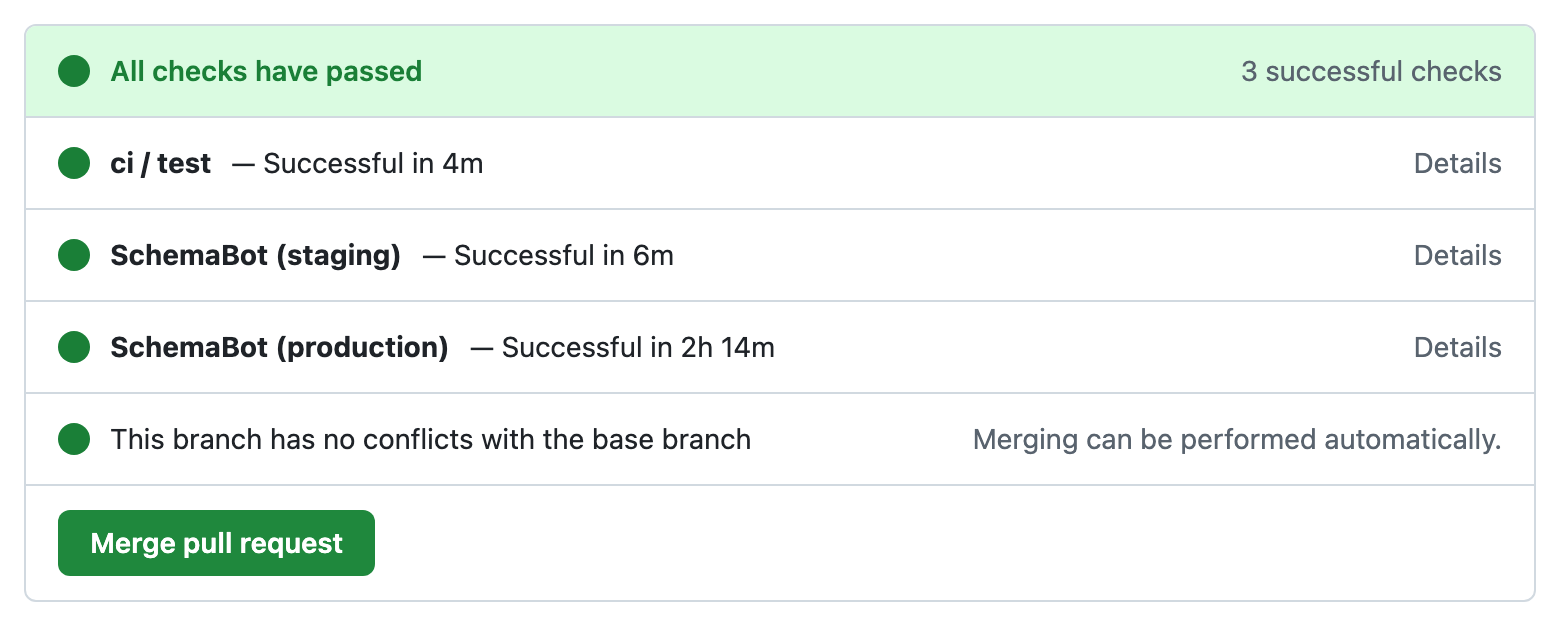
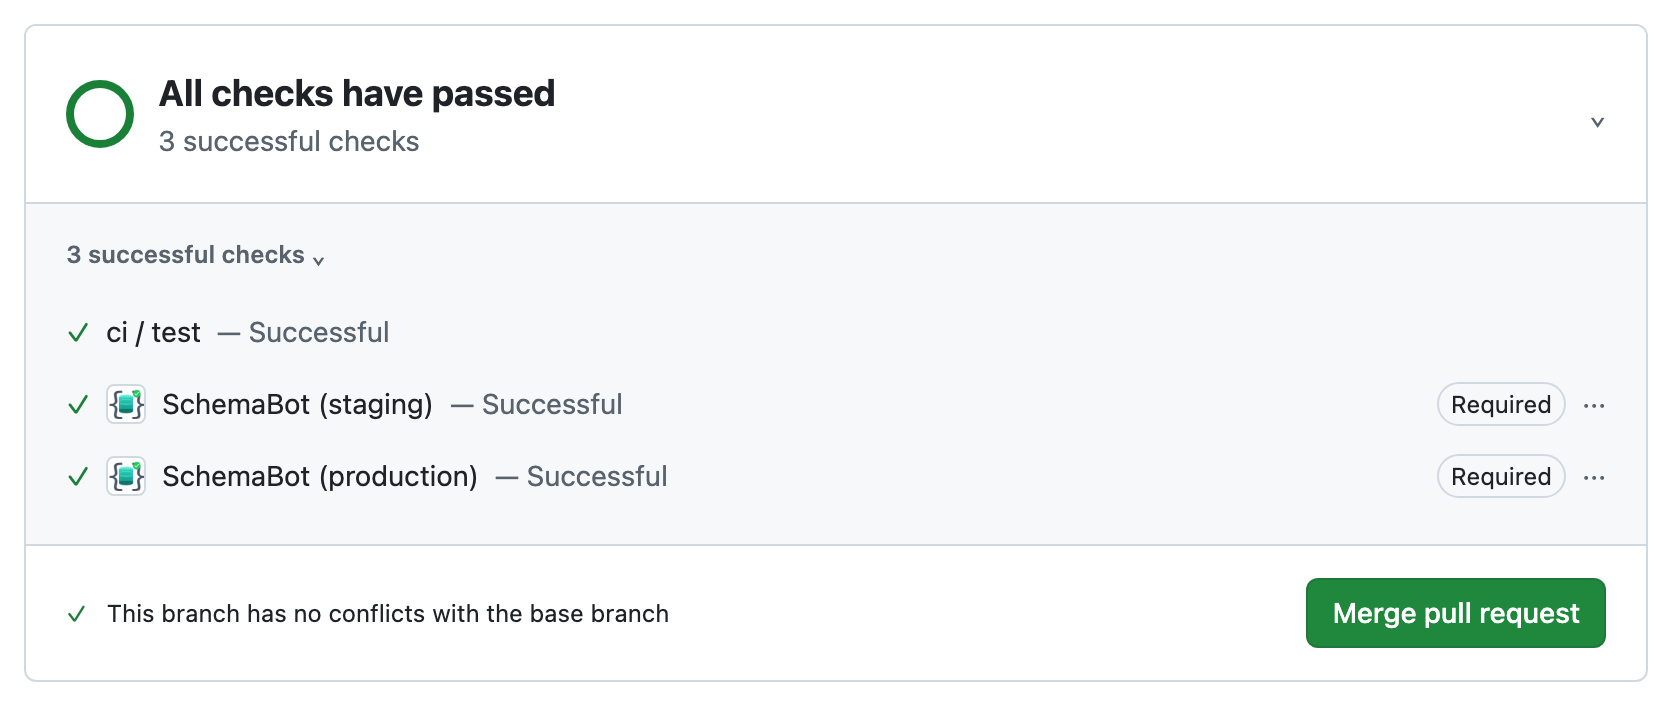
docs: preserve GIF diff colors and refine GitHub styling

diff --git a/assets/src/pr-workflow-demo.html b/assets/src/pr-workflow-demo.html
@@ -1,5 +1,5 @@
 <!doctype html><html><head><meta charset="utf-8"><link rel="stylesheet" href="pr-workflow-comments.css"><style>
-body{padding:0;width:1100px;height:820px;overflow:hidden;background:white;font-size:14px}.repo{height:57px;display:flex;align-items:center;gap:10px;padding:0 28px;background:#f6f8fa;border-bottom:1px solid #d1d9e0;font-size:14px}.repo b{font-weight:600}.repo .pill{border:1px solid #d1d9e0;border-radius:20px;padding:0 7px;font-size:12px;color:#59636e}.repo .right{margin-left:auto;color:#59636e}.page{height:733px;overflow:hidden;overflow-anchor:none;padding:24px 36px 40px}.prhead h1{font-size:28px;font-weight:400;margin:0 0 10px;line-height:1.25}.prhead h1 span{color:#59636e}.meta{display:flex;gap:8px;align-items:center;color:#59636e}.state{background:#1f883d;color:white;border-radius:20px;padding:5px 12px;font-weight:500}.tabs{display:flex;gap:24px;border-bottom:1px solid #d1d9e0;margin:20px 0 24px;height:40px;align-items:flex-start}.tabs span{padding:7px 8px 11px}.tabs .selected{border-bottom:2px solid #fd8c73;font-weight:600}.counter{font-style:normal;font-size:12px;background:#afb8c133;border-radius:20px;padding:1px 6px;margin-left:5px}.content{max-width:960px}.tl{padding-left:56px}.av.h{background:#f6f8fa;display:grid;place-items:center;border:1px solid #d1d9e0;color:#59636e}.hd{min-height:42px}.hd .more{margin-left:12px;font-weight:600}.bd{font-size:14px}.bd>h2{font-size:21px}.bd pre{font-size:12px}.bd hr{height:1px}.bd .markdown-heading h2{font-size:21px;margin:0 0 16px;border-bottom:1px solid #d1d9e0;padding-bottom:8px}.heading-link{display:none}.bd svg{vertical-align:middle}.bd img{max-width:100%}.editor-tabs{display:flex;gap:22px;padding:10px 16px;border-bottom:1px solid #d1d9e0;background:#f6f8fa}.editor-tabs b{font-weight:500}.editor{margin:12px;padding:12px;border:1px solid #0969da;box-shadow:0 0 0 2px #0969da25;border-radius:6px;height:110px;font:14px/1.5 ui-monospace,SFMono-Regular,"SF Mono",Menlo,Consolas,"Liberation Mono",monospace}.caret{border-right:1px solid #1f2328}.editor-foot{padding:0 12px 12px;display:flex;justify-content:space-between;align-items:center;color:#59636e;font-size:12px}.btn{background:#1f883d;color:white;border:1px solid #1f232826;border-radius:6px;padding:6px 14px;font:500 14px/20px -apple-system,BlinkMacSystemFont,"Segoe UI",sans-serif}.btn.pressed{background:#116329}.botnote{padding:0 16px 12px;color:#59636e;font-size:12px}.checks{margin:24px 0 20px 56px;border:1px solid #d1d9e0;border-radius:6px}.checks .row{padding:12px 16px;border-bottom:1px solid #d1d9e0;display:flex;align-items:center;gap:10px}.checks .row:last-child{border-bottom:0}.ok{color:#1a7f37}.tiny{font-size:12px;color:#59636e}.check-detail{margin-left:auto;color:#0969da}.mergedrow{background:#fbefff;min-height:104px}.mergedicon{color:#8250df}.footer{position:fixed;bottom:0;left:0;width:1100px;height:30px;background:#fff;border-top:1px solid #d1d9e0;padding:6px 36px;font-size:11px;color:#6e7781}.pointer{position:fixed;width:11px;height:17px;z-index:5;pointer-events:none;filter:drop-shadow(0 0 1px white)}.hidden{display:none!important}
+body{padding:0;width:1100px;height:820px;overflow:hidden;background:white;font-size:14px}.repo{height:57px;display:flex;align-items:center;gap:10px;padding:0 28px;background:#f6f8fa;border-bottom:1px solid #d1d9e0;font-size:14px}.repo b{font-weight:600}.repo .pill{border:1px solid #d1d9e0;border-radius:20px;padding:0 7px;font-size:12px;color:#59636e}.repo .right{margin-left:auto;color:#59636e}.page{height:733px;overflow:hidden;overflow-anchor:none;padding:24px 36px 40px}.prhead h1{font-size:28px;font-weight:400;margin:0 0 10px;line-height:1.25}.prhead h1 span{color:#59636e}.meta{display:flex;gap:8px;align-items:center;color:#59636e}.state{background:#1f883d;color:white;border-radius:20px;padding:5px 12px;font-weight:500}.tabs{display:flex;gap:24px;border-bottom:1px solid #d1d9e0;margin:20px 0 24px;height:40px;align-items:flex-start}.tabs span{padding:7px 8px 11px}.tabs .selected{border-bottom:2px solid #fd8c73;font-weight:600}.counter{font-style:normal;font-size:12px;background:#afb8c133;border-radius:20px;padding:1px 6px;margin-left:5px}.content{max-width:960px}.tl{padding-left:56px}.av.h{background:#f6f8fa;display:grid;place-items:center;border:1px solid #d1d9e0;color:#59636e}.hd{min-height:42px}.hd .more{margin-left:12px;font-weight:600}.bd{font-size:14px}.bd>h2{font-size:21px}.bd pre{font-size:12px}.bd hr{height:1px}.bd .markdown-heading h2{font-size:21px;margin:0 0 16px;border-bottom:1px solid #d1d9e0;padding-bottom:8px}.heading-link{display:none}.bd svg{vertical-align:middle}.bd img{max-width:100%}.editor-tabs{display:flex;gap:22px;padding:10px 16px;border-bottom:1px solid #d1d9e0;background:#f6f8fa}.editor-tabs b{font-weight:500}.editor{margin:12px;padding:12px;border:1px solid #0969da;box-shadow:0 0 0 2px #0969da25;border-radius:6px;height:110px;font:14px/1.5 -apple-system,BlinkMacSystemFont,"Segoe UI","Noto Sans",Helvetica,Arial,sans-serif}.caret{border-right:1px solid #1f2328}.editor-foot{padding:0 12px 12px;display:flex;justify-content:space-between;align-items:center;color:#59636e;font-size:12px}.btn{background:#1f883d;color:white;border:1px solid #1f232826;border-radius:6px;padding:6px 14px;font:500 14px/20px -apple-system,BlinkMacSystemFont,"Segoe UI",sans-serif}.btn.pressed{background:#116329}.botnote{padding:0 16px 12px;color:#59636e;font-size:12px}.checks{margin:24px 0 20px 56px;border:1px solid #d1d9e0;border-radius:6px}.checks .row{padding:12px 16px;border-bottom:1px solid #d1d9e0;display:flex;align-items:center;gap:10px}.checks .row:last-child{border-bottom:0}.ok{color:#1a7f37}.tiny{font-size:12px;color:#59636e}.check-detail{margin-left:auto;color:#0969da}.mergedrow{background:#fbefff;min-height:104px}.mergedicon{color:#8250df}.footer{position:fixed;bottom:0;left:0;width:1100px;height:30px;background:#fff;border-top:1px solid #d1d9e0;padding:6px 36px;font-size:11px;color:#6e7781}.pointer{position:fixed;width:11px;height:17px;z-index:5;pointer-events:none;filter:drop-shadow(0 0 1px white)}.hidden{display:none!important}
 .diff-summary{display:flex;justify-content:space-between;margin:4px 0 16px;color:#59636e}.diff-file{border:1px solid #d1d9e0;border-radius:6px;overflow:hidden}.diff-title{display:flex;gap:12px;align-items:center;background:#f6f8fa;padding:12px 16px;border-bottom:1px solid #d1d9e0;font:13px ui-monospace,SFMono-Regular,"SF Mono",Menlo,Consolas,"Liberation Mono",monospace}.diff-title span:last-child{margin-left:auto;font:12px -apple-system,BlinkMacSystemFont,"Segoe UI","Noto Sans",Helvetica,Arial,sans-serif;color:#59636e}.diff-code{width:100%;border-collapse:collapse;font:12px/20px ui-monospace,SFMono-Regular,"SF Mono",Menlo,Consolas,"Liberation Mono",monospace}.diff-code td{padding:0;white-space:pre}.diff-code .ln{width:42px;text-align:right;padding-right:12px;color:#59636e;user-select:none}.diff-code .mark{width:24px;text-align:center}.diff-code .hunk{background:#ddf4ff;color:#59636e}.diff-code .added{background:#dafbe1}.diff-code .added .ln{background:#aceebb}.diff-code .sql-keyword{color:#cf222e}
 
 /* Split diff layout follows the supplied GitHub Files changed reference. */

diff --git a/assets/src/pr-workflow-comments.css b/assets/src/pr-workflow-comments.css
@@ -5,8 +5,8 @@ body{margin:0;padding:24px;background:#fff;font-family:-apple-system,BlinkMacSys
 .tl{position:relative;padding-left:56px}
 .tl:before{content:"";position:absolute;left:19px;top:0;bottom:0;width:2px;background:#d1d9e0}
 .c{position:relative;margin-bottom:16px;border:1px solid #d1d9e0;border-radius:6px;background:#fff}
-.av{position:absolute;left:-56px;top:0;width:40px;height:40px;border-radius:50%;object-fit:cover;background:#eee}
-.av.h{background:linear-gradient(135deg,#6e40c9,#2da44e)}
+.av{position:absolute;left:-56px;top:0;width:40px;height:40px;border-radius:8px;object-fit:cover;background:#fff;border:1px solid #d1d9e0}
+.av.h{border-radius:50%;background:linear-gradient(135deg,#6e40c9,#2da44e)}
 .hd{background:#f6f8fa;border-bottom:1px solid #d1d9e0;padding:8px 16px;border-radius:6px 6px 0 0;display:flex;align-items:center;gap:6px;color:#59636e}
 .hd b{color:#1f2328;font-weight:600}
 .hd .lbl{margin-left:auto;font-size:12px;border:1px solid #d1d9e0;border-radius:2em;padding:0 7px;line-height:18px;color:#59636e}
@@ -48,3 +48,4 @@ body{margin:0;padding:24px;background:#fff;font-family:-apple-system,BlinkMacSys
 .pl-v,.pl-smw{color:#953800}.pl-bu{color:#82071e}
 .pl-mh,.pl-mh .pl-en,.pl-ms{font-weight:bold;color:#0550ae}
 .pl-mi{font-style:italic;color:#1f2328}.pl-mb{font-weight:bold;color:#1f2328}
+.sc{border:1px solid #d1d9e0;border-radius:6px;overflow:hidden}.sc-head{display:flex;align-items:center;gap:12px;padding:20px;background:white;border-bottom:1px solid #d1d9e0}.sc-head b{font-size:18px}.sc-muted{color:#59636e}.sc-ring{width:34px;height:34px;border:4px solid #1a7f37;border-radius:50%;flex:none}.sc-right{margin-left:auto;color:#59636e}.sc-details{background:#f6f8fa;padding:16px 20px}.sc-label{font-size:12px;color:#59636e;font-weight:600;margin-bottom:12px}.sc-entry{display:flex;align-items:center;gap:8px;min-height:36px}.sc-entry img{width:20px;height:20px;border:1px solid #d1d9e0;background:white;border-radius:4px}.sc-tick{color:#1a7f37}.sc-required{margin-left:auto;border:1px solid #d1d9e0;border-radius:20px;font-size:12px;padding:0 6px;line-height:20px}.sc-foot{display:flex;align-items:center;gap:10px;border-top:1px solid #d1d9e0;padding:16px 20px;font-size:12px}.sc-button{margin-left:auto;border:1px solid #1f232826;background:#1f883d;color:white;padding:6px 12px;border-radius:6px;font-size:14px;font-weight:500}

diff --git a/scripts/render-pr-mockups.py b/scripts/render-pr-mockups.py
@@ -62,8 +62,8 @@ body{margin:0;padding:24px;background:#fff;font-family:-apple-system,BlinkMacSys
 .tl{position:relative;padding-left:56px}
 .tl:before{content:"";position:absolute;left:19px;top:0;bottom:0;width:2px;background:#d1d9e0}
 .c{position:relative;margin-bottom:16px;border:1px solid #d1d9e0;border-radius:6px;background:#fff}
-.av{position:absolute;left:-56px;top:0;width:40px;height:40px;border-radius:50%;object-fit:cover;background:#eee}
-.av.h{background:linear-gradient(135deg,#6e40c9,#2da44e)}
+.av{position:absolute;left:-56px;top:0;width:40px;height:40px;border-radius:8px;object-fit:cover;background:#fff;border:1px solid #d1d9e0}
+.av.h{border-radius:50%;background:linear-gradient(135deg,#6e40c9,#2da44e)}
 .hd{background:#f6f8fa;border-bottom:1px solid #d1d9e0;padding:8px 16px;border-radius:6px 6px 0 0;display:flex;align-items:center;gap:6px;color:#59636e}
 .hd b{color:#1f2328;font-weight:600}
 .hd .lbl{margin-left:auto;font-size:12px;border:1px solid #d1d9e0;border-radius:2em;padding:0 7px;line-height:18px;color:#59636e}
@@ -105,18 +105,21 @@ body{margin:0;padding:24px;background:#fff;font-family:-apple-system,BlinkMacSys
 .pl-v,.pl-smw{color:#953800}.pl-bu{color:#82071e}
 .pl-mh,.pl-mh .pl-en,.pl-ms{font-weight:bold;color:#0550ae}
 .pl-mi{font-style:italic;color:#1f2328}.pl-mb{font-weight:bold;color:#1f2328}
+.sc{border:1px solid #d1d9e0;border-radius:6px;overflow:hidden}.sc-head{display:flex;align-items:center;gap:12px;padding:20px;background:white;border-bottom:1px solid #d1d9e0}.sc-head b{font-size:18px}.sc-muted{color:#59636e}.sc-ring{width:34px;height:34px;border:4px solid #1a7f37;border-radius:50%;flex:none}.sc-right{margin-left:auto;color:#59636e}.sc-details{background:#f6f8fa;padding:16px 20px}.sc-label{font-size:12px;color:#59636e;font-weight:600;margin-bottom:12px}.sc-entry{display:flex;align-items:center;gap:8px;min-height:36px}.sc-entry img{width:20px;height:20px;border:1px solid #d1d9e0;background:white;border-radius:4px}.sc-tick{color:#1a7f37}.sc-required{margin-left:auto;border:1px solid #d1d9e0;border-radius:20px;font-size:12px;padding:0 6px;line-height:20px}.sc-foot{display:flex;align-items:center;gap:10px;border-top:1px solid #d1d9e0;padding:16px 20px;font-size:12px}.sc-button{margin-left:auto;border:1px solid #1f232826;background:#1f883d;color:white;padding:6px 12px;border-radius:6px;font-size:14px;font-weight:500}
 """
 
 PANELS = {
     "checks": (
-        '<div class="box"><div class="row ok"><span class="i ok"></span>All checks have passed'
-        '<span class="pill">3 successful checks</span></div>'
-        '<div class="row"><span class="i ok"></span><b>ci / test</b> — Successful in 4m<span class="pill">Details</span></div>'
-        '<div class="row"><span class="i ok"></span><b>SchemaBot (staging)</b> — Successful in 6m<span class="pill">Details</span></div>'
-        '<div class="row"><span class="i ok"></span><b>SchemaBot (production)</b> — Successful in 2h 14m<span class="pill">Details</span></div>'
-        '<div class="row"><span class="i ok"></span>This branch has no conflicts with the base branch'
-        '<span class="pill">Merging can be performed automatically.</span></div>'
-        '<div class="row"><span class="btn">Merge pull request</span></div></div>'
+        '<div class="sc"><div class="sc-head"><span class="sc-ring"></span><div><b>All checks have passed</b>'
+        '<div class="sc-muted">3 successful checks</div></div><span class="sc-right">⌄</span></div>'
+        '<div class="sc-details"><div class="sc-label">3 successful checks ⌄</div>'
+        '<div class="sc-entry"><span class="sc-tick">✓</span><span>ci / test</span><span class="sc-muted">— Successful</span></div>'
+        '<div class="sc-entry"><span class="sc-tick">✓</span><img src="bot.png"><span>SchemaBot (staging)</span>'
+        '<span class="sc-muted">— Successful</span><span class="sc-required">Required</span><span class="sc-muted">···</span></div>'
+        '<div class="sc-entry"><span class="sc-tick">✓</span><img src="bot.png"><span>SchemaBot (production)</span>'
+        '<span class="sc-muted">— Successful</span><span class="sc-required">Required</span><span class="sc-muted">···</span></div></div>'
+        '<div class="sc-foot"><span class="sc-tick">✓</span>This branch has no conflicts with the base branch'
+        '<span class="sc-button">Merge pull request</span></div></div>'
     ),
     "merged": (
         '<div class="box merged"><div class="row"><span class="i m"></span><b>Pull request successfully merged and closed</b>'
